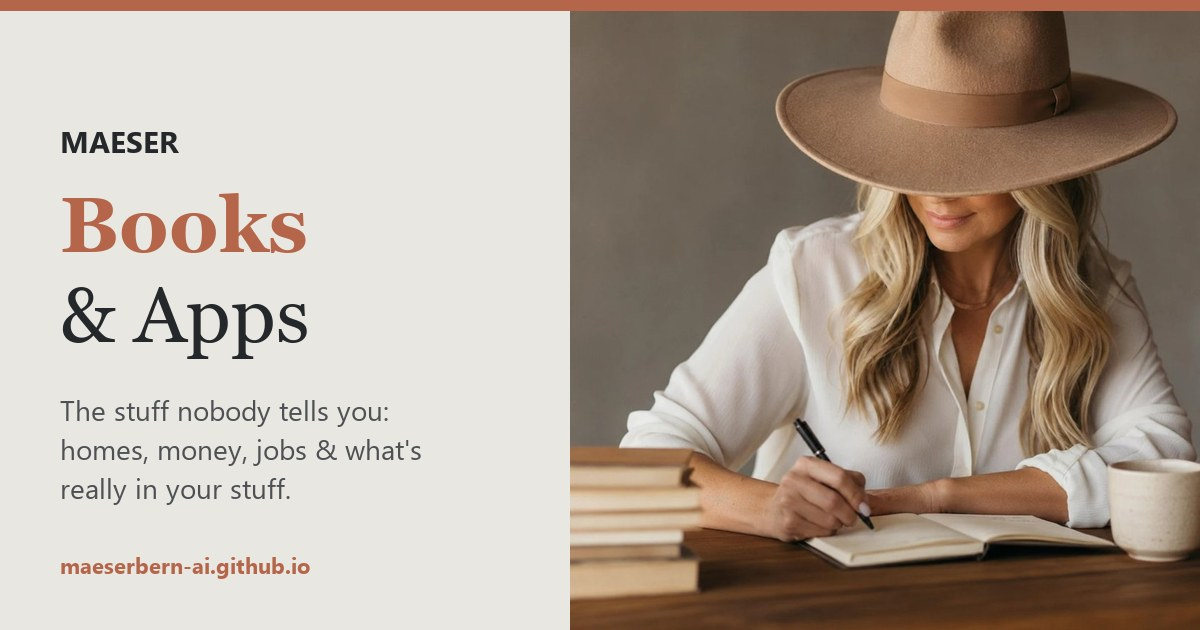
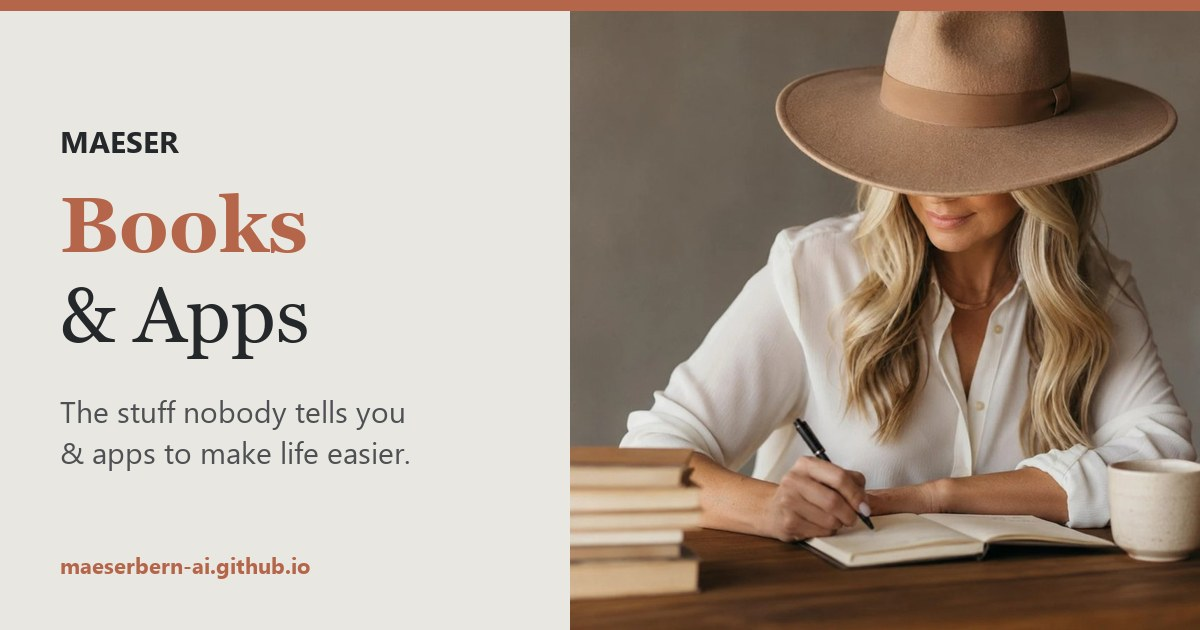
Remove money wording from link preview text and card

Changed region(s): [[0.0308, 0.6333, 0.3392, 0.8143]]

diff --git a/index.html b/index.html
@@ -20,7 +20,7 @@
 <meta property="og:type" content="website" />
 <meta property="og:site_name" content="Maeser" />
 <meta property="og:title" content="Maeser | Books &amp; Apps" />
-<meta property="og:description" content="The stuff nobody tells you: homes, money, jobs &amp; what's really in your stuff. Books + apps by Maeser." />
+<meta property="og:description" content="The stuff nobody tells you &amp; apps to make life easier. Homeownership, ingredients, health and interview prep." />
 <meta property="og:url" content="https://maeserbern-ai.github.io/" />
 <meta property="og:image" content="https://maeserbern-ai.github.io/share-card.jpg" />
 <meta property="og:image:width" content="1200" />
@@ -28,7 +28,7 @@
 <meta property="og:image:alt" content="Maeser, Books and Apps" />
 <meta name="twitter:card" content="summary_large_image" />
 <meta name="twitter:title" content="Maeser | Books &amp; Apps" />
-<meta name="twitter:description" content="The stuff nobody tells you: homes, money, jobs &amp; what's really in your stuff." />
+<meta name="twitter:description" content="The stuff nobody tells you &amp; apps to make life easier. Homeownership, ingredients, health and interview prep." />
 <meta name="twitter:image" content="https://maeserbern-ai.github.io/share-card.jpg" />
 <script type="application/ld+json">{"@context": "https://schema.org", "@graph": [{"@type": "Person", "@id": "https://maeserbern-ai.github.io/#maeser", "name": "Maeser", "url": "https://maeserbern-ai.github.io/", "image": "https://maeserbern-ai.github.io/maeser-photo.jpg", "jobTitle": "Author and app developer", "email": "mailto:maeserbern@gmail.com", "sameAs": ["https://www.amazon.com/author/maeser", "https://www.instagram.com/secretlyneed/", "https://www.tiktok.com/@secretlyneed", "https://www.youtube.com/@secretlyneed", "https://www.facebook.com/secretlyneed", "https://www.pinterest.com/secretlyneed/", "https://www.threads.com/@secretlyneed", "https://bsky.app/profile/secretlyneed.bsky.social"]}, {"@type": "Book", "name": "The First-Time Homeowner Survival Guide", "author": {"@id": "https://maeserbern-ai.github.io/#maeser"}, "url": "https://www.amazon.com/author/maeser"}, {"@type": "Book", "name": "Real Estate Investing for Beginners", "author": {"@id": "https://maeserbern-ai.github.io/#maeser"}, "url": "https://www.amazon.com/author/maeser"}, {"@type": "Book", "name": "Feel 25 Again", "author": {"@id": "https://maeserbern-ai.github.io/#maeser"}, "url": "https://www.amazon.com/author/maeser"}, {"@type": "Book", "name": "The Amazon Merch and Print-on-Demand Side Hustle Guide", "author": {"@id": "https://maeserbern-ai.github.io/#maeser"}, "url": "https://www.amazon.com/author/maeser"}, {"@type": "Book", "name": "Ingredient Dictionary: It's Not Clean", "author": {"@id": "https://maeserbern-ai.github.io/#maeser"}, "url": "https://www.amazon.com/author/maeser"}, {"@type": "Book", "name": "Ingredient Dictionary: It's Not Food", "author": {"@id": "https://maeserbern-ai.github.io/#maeser"}, "url": "https://www.amazon.com/author/maeser"}, {"@type": "Book", "name": "Ingredient Dictionary: It's Not Beauty", "author": {"@id": "https://maeserbern-ai.github.io/#maeser"}, "url": "https://www.amazon.com/author/maeser"}, {"@type": "Book", "name": "Ingredient Dictionary: It's Not for Kids", "author": {"@id": "https://maeserbern-ai.github.io/#maeser"}, "url": "https://www.amazon.com/author/maeser"}, {"@type": "Book", "name": "Ingredient Dictionary: Your Home Is Not Safe", "author": {"@id": "https://maeserbern-ai.github.io/#maeser"}, "url": "https://www.amazon.com/author/maeser"}, {"@type": "Book", "name": "Ingredient Dictionary: What Is Toilet Paper?", "author": {"@id": "https://maeserbern-ai.github.io/#maeser"}, "url": "https://www.amazon.com/author/maeser"}, {"@type": "SoftwareApplication", "name": "CueReady AI", "applicationCategory": "EducationalApplication", "operatingSystem": "iOS, Android", "author": {"@id": "https://maeserbern-ai.github.io/#maeser"}, "url": "https://apps.apple.com/us/app/cueready-ai/id6777132008", "sameAs": ["https://play.google.com/store/apps/details?id=com.speakready.app"]}, {"@type": "SoftwareApplication", "name": "Home Survival Kit", "applicationCategory": "BusinessApplication", "operatingSystem": "iOS, Android", "author": {"@id": "https://maeserbern-ai.github.io/#maeser"}, "url": "https://apps.apple.com/us/app/home-survival-kit/id6781825828", "sameAs": ["https://play.google.com/store/apps/details?id=com.maeser.homesurvivalkit"]}, {"@type": "WebApplication", "name": "Photostrator 3D", "applicationCategory": "DesignApplication", "operatingSystem": "Web", "author": {"@id": "https://maeserbern-ai.github.io/#maeser"}, "url": "https://photostrator-3d.netlify.app/"}]}</script>
 <link rel="preconnect" href="https://fonts.googleapis.com" />
